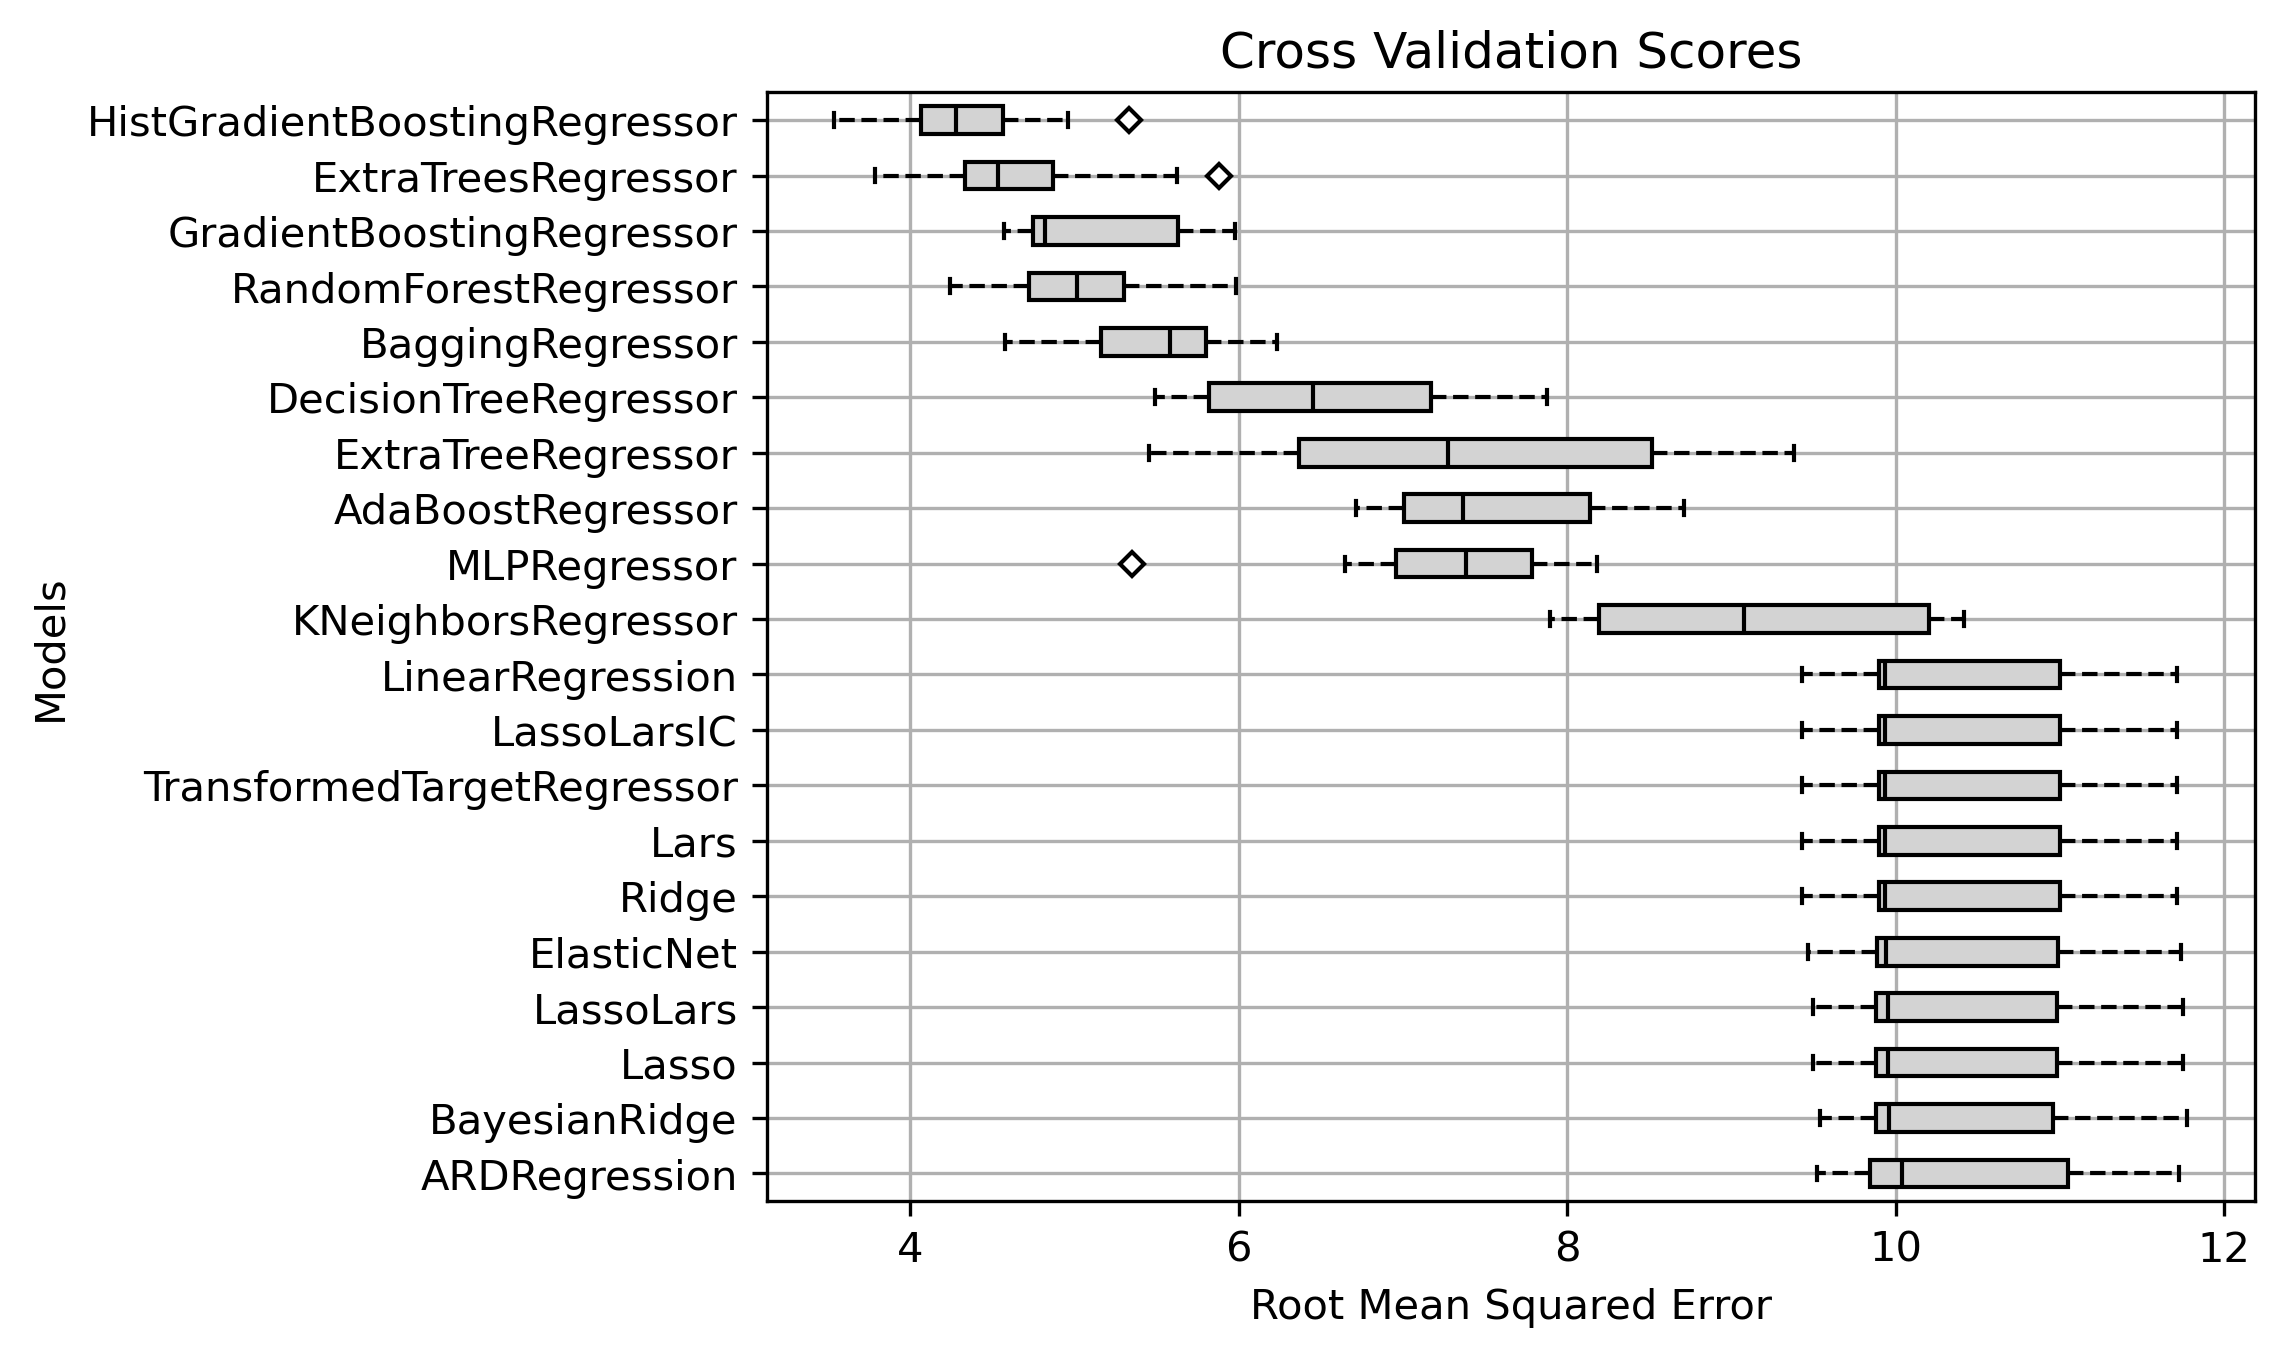
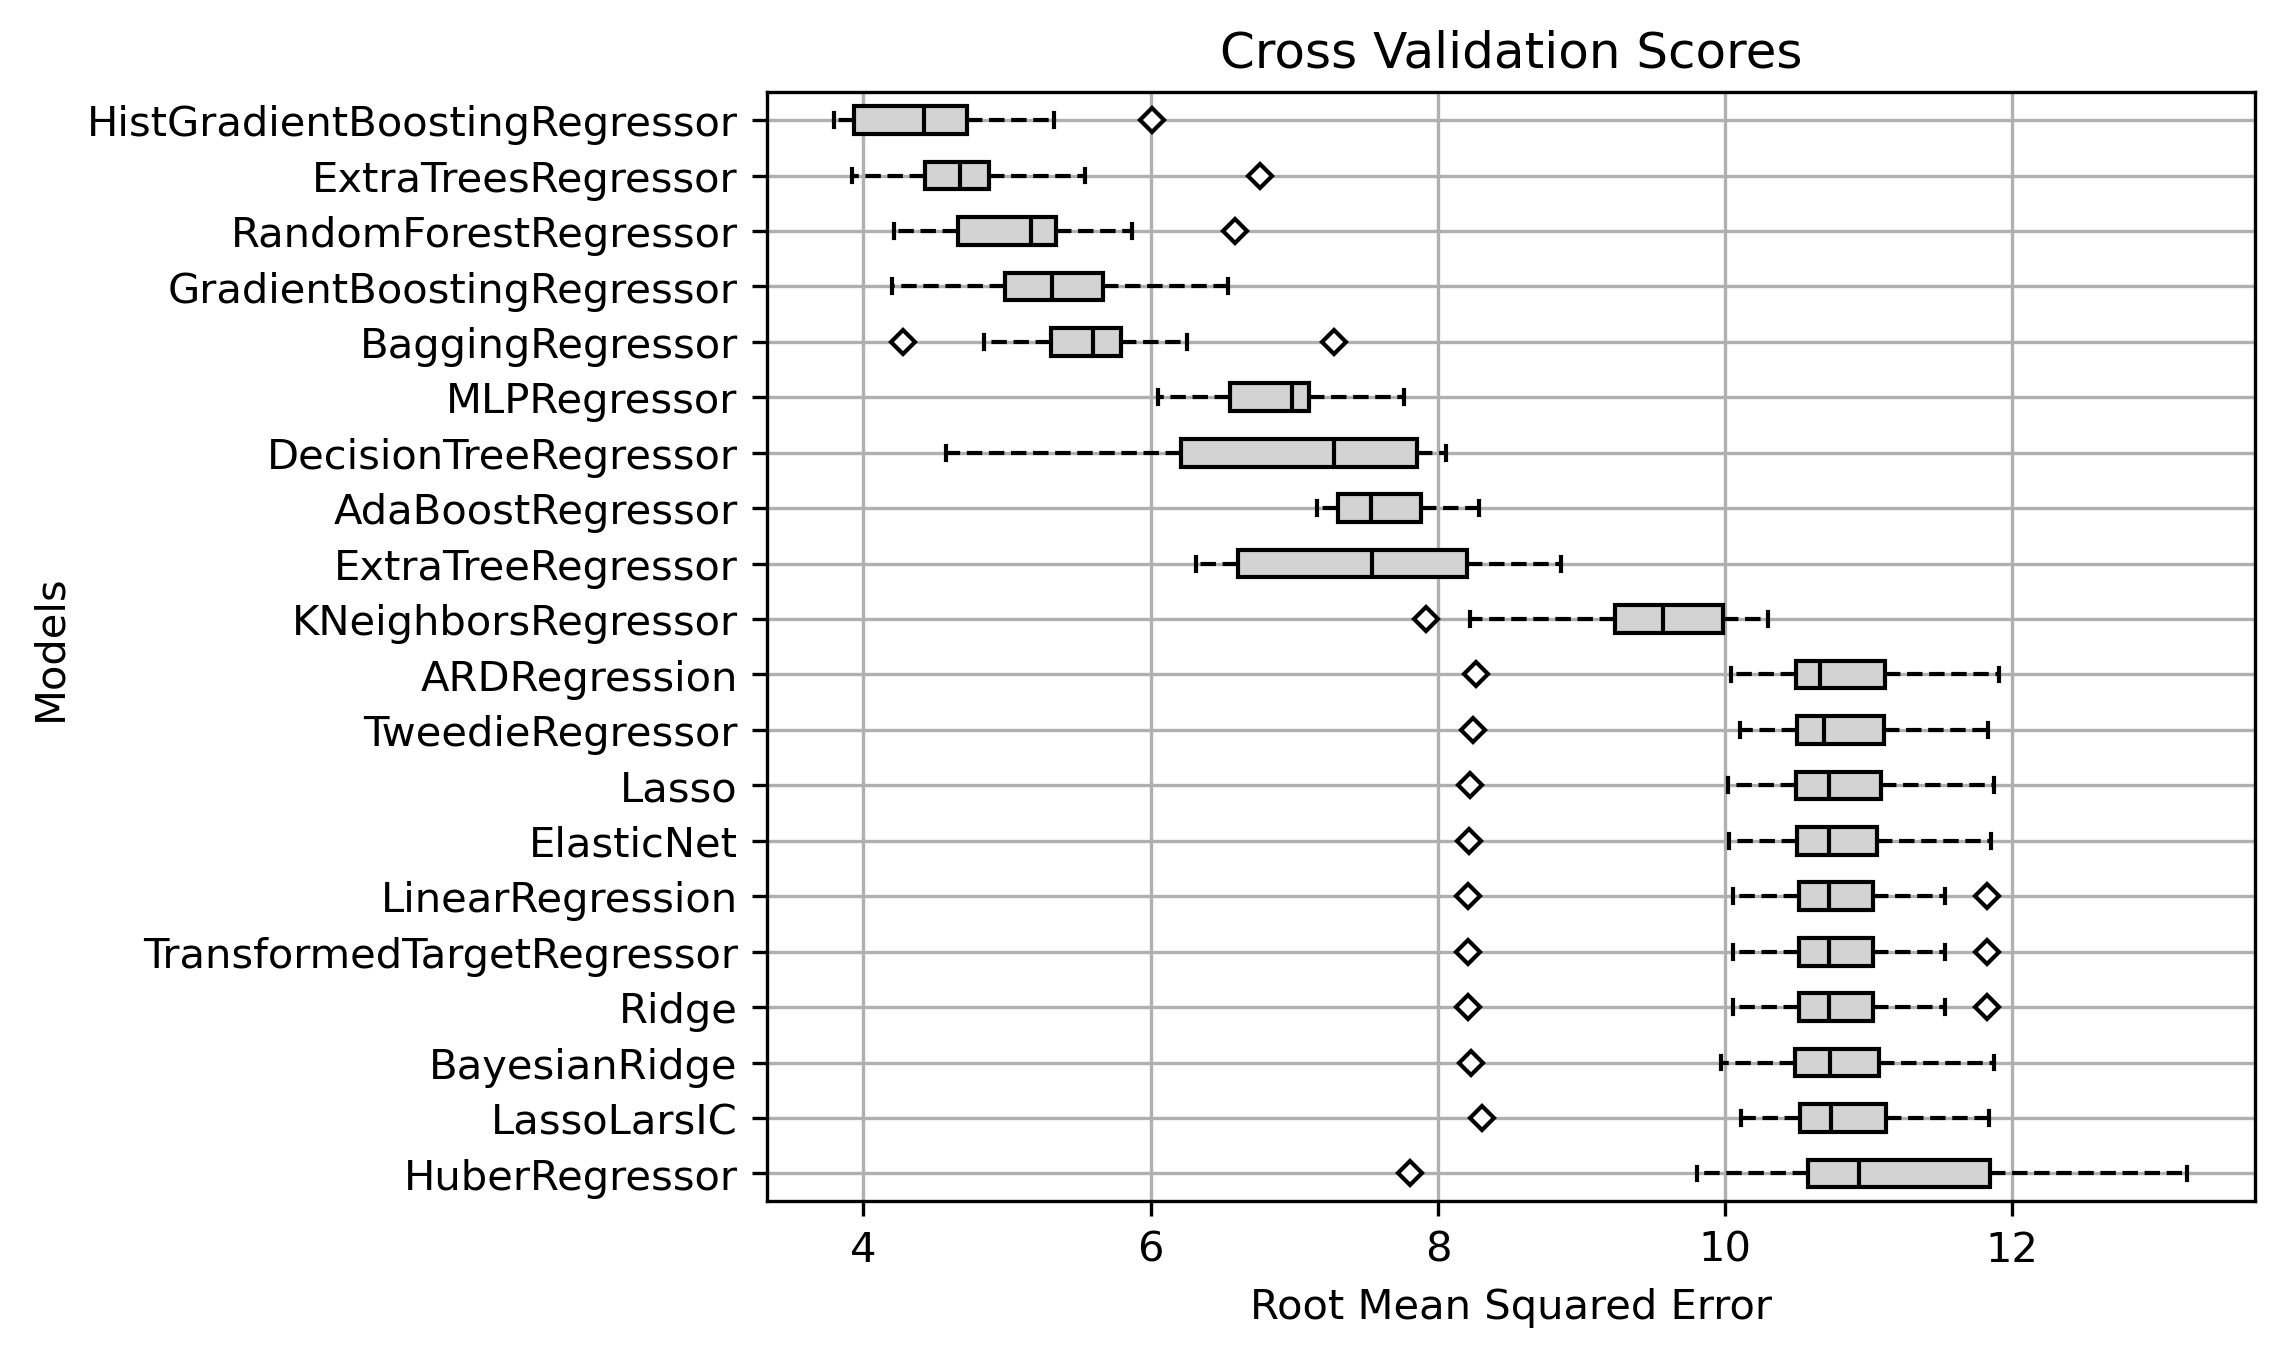
recording which regressors failed

diff --git a/AutoML/ScikitLearn/parSim_v5/utils.py b/AutoML/ScikitLearn/parSim_v5/utils.py
@@ -280,7 +280,7 @@ def metric_help_func():
         email(['sj110@iu.edu', 'jmelms@iu.edu'], f'ID: {id} - {e}')
 
 
-def comparison(datapath: str, which_regressors: dict, metric_list: list, styledict: dict, n_vizualized_bp=-1, n_vizualized_tb=-1, test_set_size=0.2, n_cv_folds=10, score_method='Root Mean Squared Error') -> None:
+def comparison(datapath: str, which_regressors: dict, metric_list: list, styledict: dict, n_vizualized_bp=-1, n_vizualized_tb=-1, test_set_size=0.2, n_cv_folds=10, score_method='Root Mean Squared Error', n_workers=1) -> None:
     """
     This function will perform cross-validation training across several regressor types for one dataset. 
     The cross-validation scores will be recorded and vizualized in a box plot chart, displaying regressor performance across
@@ -322,22 +322,34 @@ def comparison(datapath: str, which_regressors: dict, metric_list: list, styledi
         # to do this, below list comp will use two diff indices - [i // n_cv_folds] to group all regressors of same type and [i % n_cv_folds] to split those regressors over each of the k (normally 10) folds
         # could be done just as well with a nested for loop iterating over both regressors and folds
         args_lst = [(regs[i // n_cv_folds], reg_names[i // n_cv_folds], metric_list, metric_help, cv_X_train[i % n_cv_folds], cv_y_train[i % n_cv_folds], cv_X_test[i % n_cv_folds], cv_y_test[i % n_cv_folds]) for i in range(len(regs) * n_cv_folds)]
-        multiprocessing.set_start_method("spawn") # spawn method is safer and supported across both Unix and Windows systems, alternative (may not work) is fork
-        with multiprocessing.Pool(processes=8) as pool: # defaulting to 8 processesors
-            results = pool.starmap(run, args_lst)
-
-        #organizing results of cv runs into a dictionary                   
+        
+        if n_workers == 1: # serial
+            results = [run(*args) for args in args_lst]
+           
+        else: # parallel
+            multiprocessing.set_start_method("spawn") # spawn method is safer and supported across both Unix and Windows systems, alternative (may not work) is fork
+            with multiprocessing.Pool(processes=n_workers) as pool: # defaulting to 8 processesors
+                results = pool.starmap(run, args_lst)
+                
+        #organizing results of cv runs into a dictionary          
+        failed_regs = set()         
         org_results = {} # -> {'Reg Name': [{'Same Reg Name': [metric, metric, ..., Reg Obj.]}, {}, {}, ... ], '':[], '':[], ... } of raw results
-        for single_reg_dict in results:
-            if type(single_reg_dict) == dict:
-                reg_name = list(single_reg_dict.keys())[0]
+        for success_status, single_reg_output in results:
+            if success_status:
+                reg_name = list(single_reg_output.keys())[0]
                 if reg_name in org_results:
-                    org_results[reg_name] += [single_reg_dict]
+                    org_results[reg_name] += [single_reg_output]
                 else:
-                    org_results[reg_name] = [single_reg_dict]
+                    org_results[reg_name] = [single_reg_output]
+                    
+            else:
+                failed_regs.add(single_reg_output)
 
         #keeping only those results that did not throw an error during any cv run
-        fin_org_results = {k: v for k,v in org_results.items() if len(v) == n_cv_folds}
+        fin_org_results = {k: v for k,v in org_results.items() if k not in failed_regs}
+        
+        
+        print(f"The following regressors failed: {'---'.join(reg for reg in failed_regs)}")
         
         #write out a csv file that contains fin_org_results
         out_path = f"performance_stats_{id}.csv"
@@ -352,7 +364,7 @@ def comparison(datapath: str, which_regressors: dict, metric_list: list, styledi
         for k in range(len(figs)):
             figs[k].savefig(f'AutoML/ScikitLearn/parSim_v5/par_1/figure_{k}.png', bbox_inches='tight', dpi=styledict['dpi'])
         
-        pass
+        return list(failed_regs)
 
     except Exception as e:
         email(['sj110@iu.edu', 'jmelms@iu.edu'], f'ID: {id} - {e}')
@@ -377,6 +389,7 @@ def run(reg: object, reg_name: str, metric_list: list, metric_help: dict, train_
         reg_dict (dict) - dictionary of results from cross-validation run on one regressor
     """
     print(f"Checking {reg}")
+    success = True
     try:
         model_trained = reg.fit(train_attrib, train_labels)
         y_pred = model_trained.predict(test_attrib)
@@ -385,11 +398,12 @@ def run(reg: object, reg_name: str, metric_list: list, metric_help: dict, train_
             calculated = metric_help[k][2](test_labels, y_pred)
             reg_dict[reg_name].append(calculated if k != 'Root Mean Squared Error' else calculated**.5)
         reg_dict[reg_name].append(model_trained)
-        return reg_dict
 
     except Exception as e:
-        logger_root.exception(f"{123456}\n")
-        pass
+        success = False
+        reg_dict = reg_name
+    
+    return success, reg_dict
 
 
 def boxplot(fin_org_results: dict, styledict: dict, metric_list: list, metric_help: dict, n_vizualized_bp: int, index: int) -> plt.figure:

diff --git a/AutoML/ScikitLearn/parSim_v5/main.py b/AutoML/ScikitLearn/parSim_v5/main.py
@@ -1,6 +1,6 @@
 from utils import *
 
-paramdict = {'datapath': 'AutoML\ConcreteData\Concrete_Data.csv',
+paramdict = {'datapath': 'AutoML/ConcreteData/Concrete_Data.csv',
             'which_regressors': {'ARDRegression': 1, 'AdaBoostRegressor': 1, 'BaggingRegressor': 1, 'BayesianRidge': 1, 'CCA': 1, 
                                  'DecisionTreeRegressor': 1, 'DummyRegressor': 1, 'ElasticNet': 1, 'ExtraTreeRegressor': 1, 
                                  'ExtraTreesRegressor': 1, 'GammaRegressor': 1, 'GaussianProcessRegressor': 1, 'GradientBoostingRegressor': 1, 
@@ -23,7 +23,8 @@ paramdict = {'datapath': 'AutoML\ConcreteData\Concrete_Data.csv',
             'n_vizualized_tb': 10,
             'test_set_size': 0.2,
             'n_cv_folds': 10,
-            'score_method': 'Root Mean Squared Error'
+            'score_method': 'Root Mean Squared Error',
+            'n_workers': 1
             }
 
 
